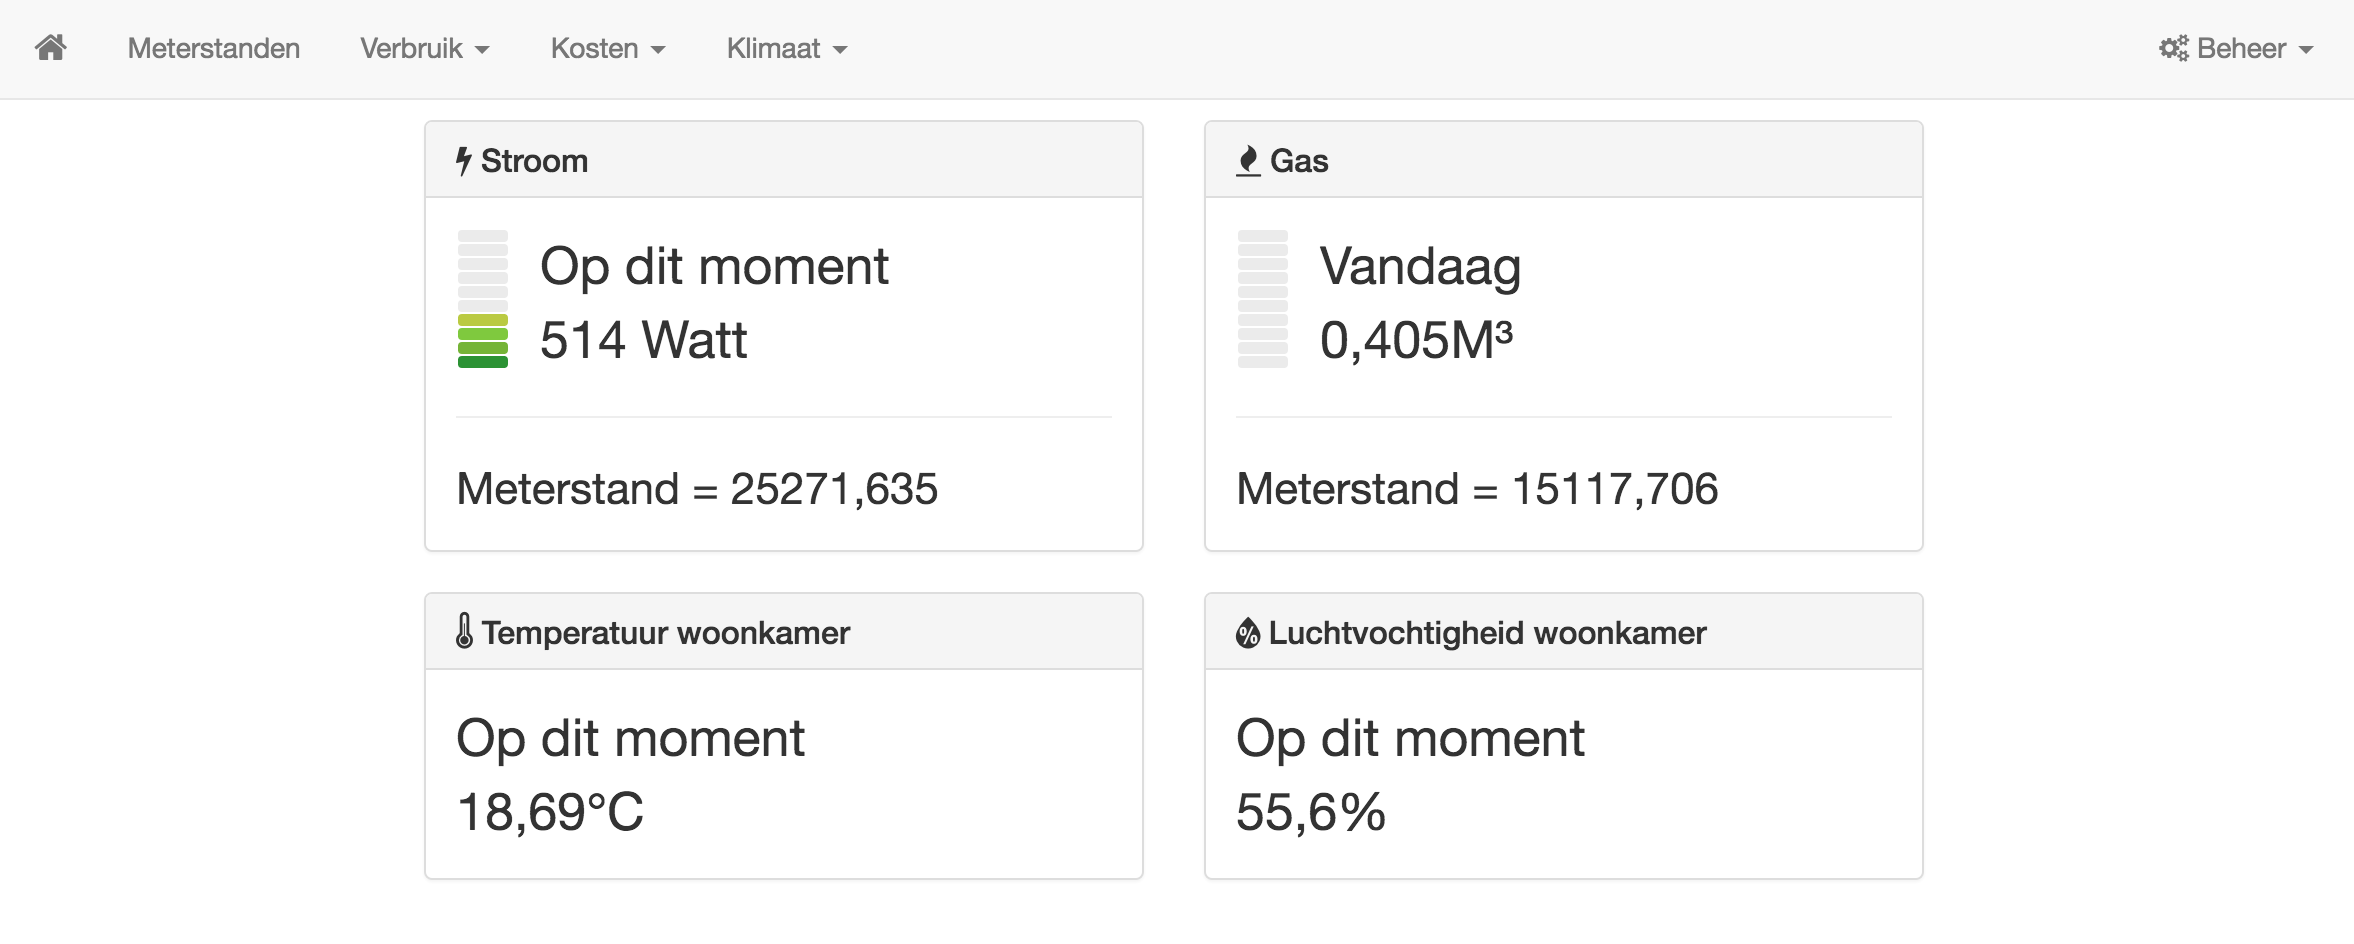
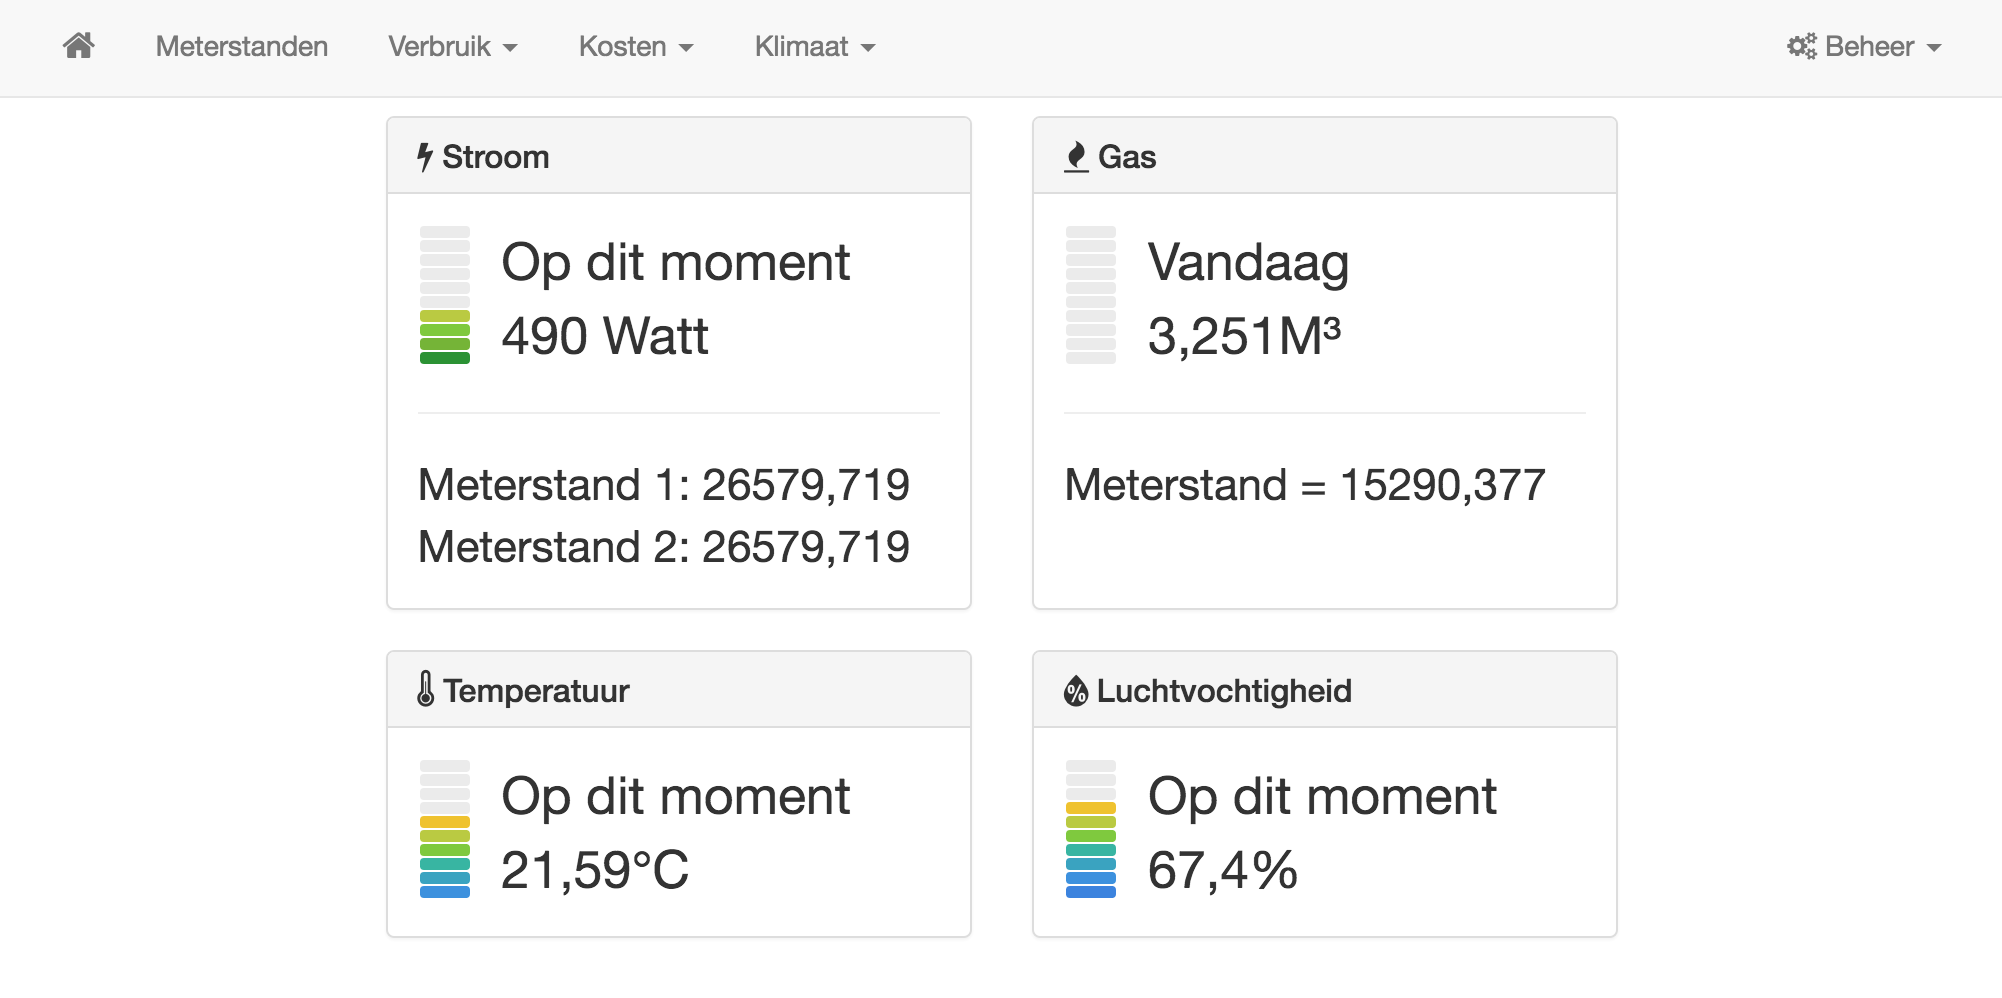
Updates some (but not all) screenshots to match current state of software. Added custom logback config to make rolling file appender clean up older log files

diff --git a/README.md b/README.md
@@ -48,10 +48,6 @@ Vergelijken met andere jaren (in maand overview)
 
 ----------------
 
-Directive voor datepicker op grafiek pagina
-
-----------------
-
 Gebruik en kosten per leverancier
 
 var chart = c3.generate({
@@ -67,47 +63,3 @@ var chart = c3.generate({
         keys:  {x: 'maand', value: ['Essent', 'GreenChoice']}
     }
 });
-
-----------------
-
-10 hoogste temperaturen in periode
-
-select * from klimaat where id in (
-	select highest.id from (
-
-		select
-			id,
-			datumtijd,
-			max(temperatuur) hoogste_temperatuur
-		from
-			klimaat
-		group by
-			date(datumtijd)
-		having
-			datumtijd >= '2016-01-01 00:00:00'
-			and
-			datumtijd < '2017-01-01 00:00:00'
-		order by hoogste_temperatuur desc
-		limit 10
-
-	) highest
-);
-
-
-SELECT tt.* FROM klimaat tt
-INNER JOIN
-    (
-		SELECT date(datumtijd) as dt, MAX(temperatuur) AS hoogste_temperatuur
-		FROM klimaat
-		GROUP BY date(datumtijd)
-        order by hoogste_temperatuur desc
-		) groupedtt
-ON date(tt.datumtijd) = groupedtt.dt
-AND tt.temperatuur = groupedtt.hoogste_temperatuur
-order by temperatuur desc
-limit 10;
-
-
-select * from klimaat where date(datumtijd) = '2016-05-11' and temperatuur = 26.04
-order by datumtijd asc
-limit 1
